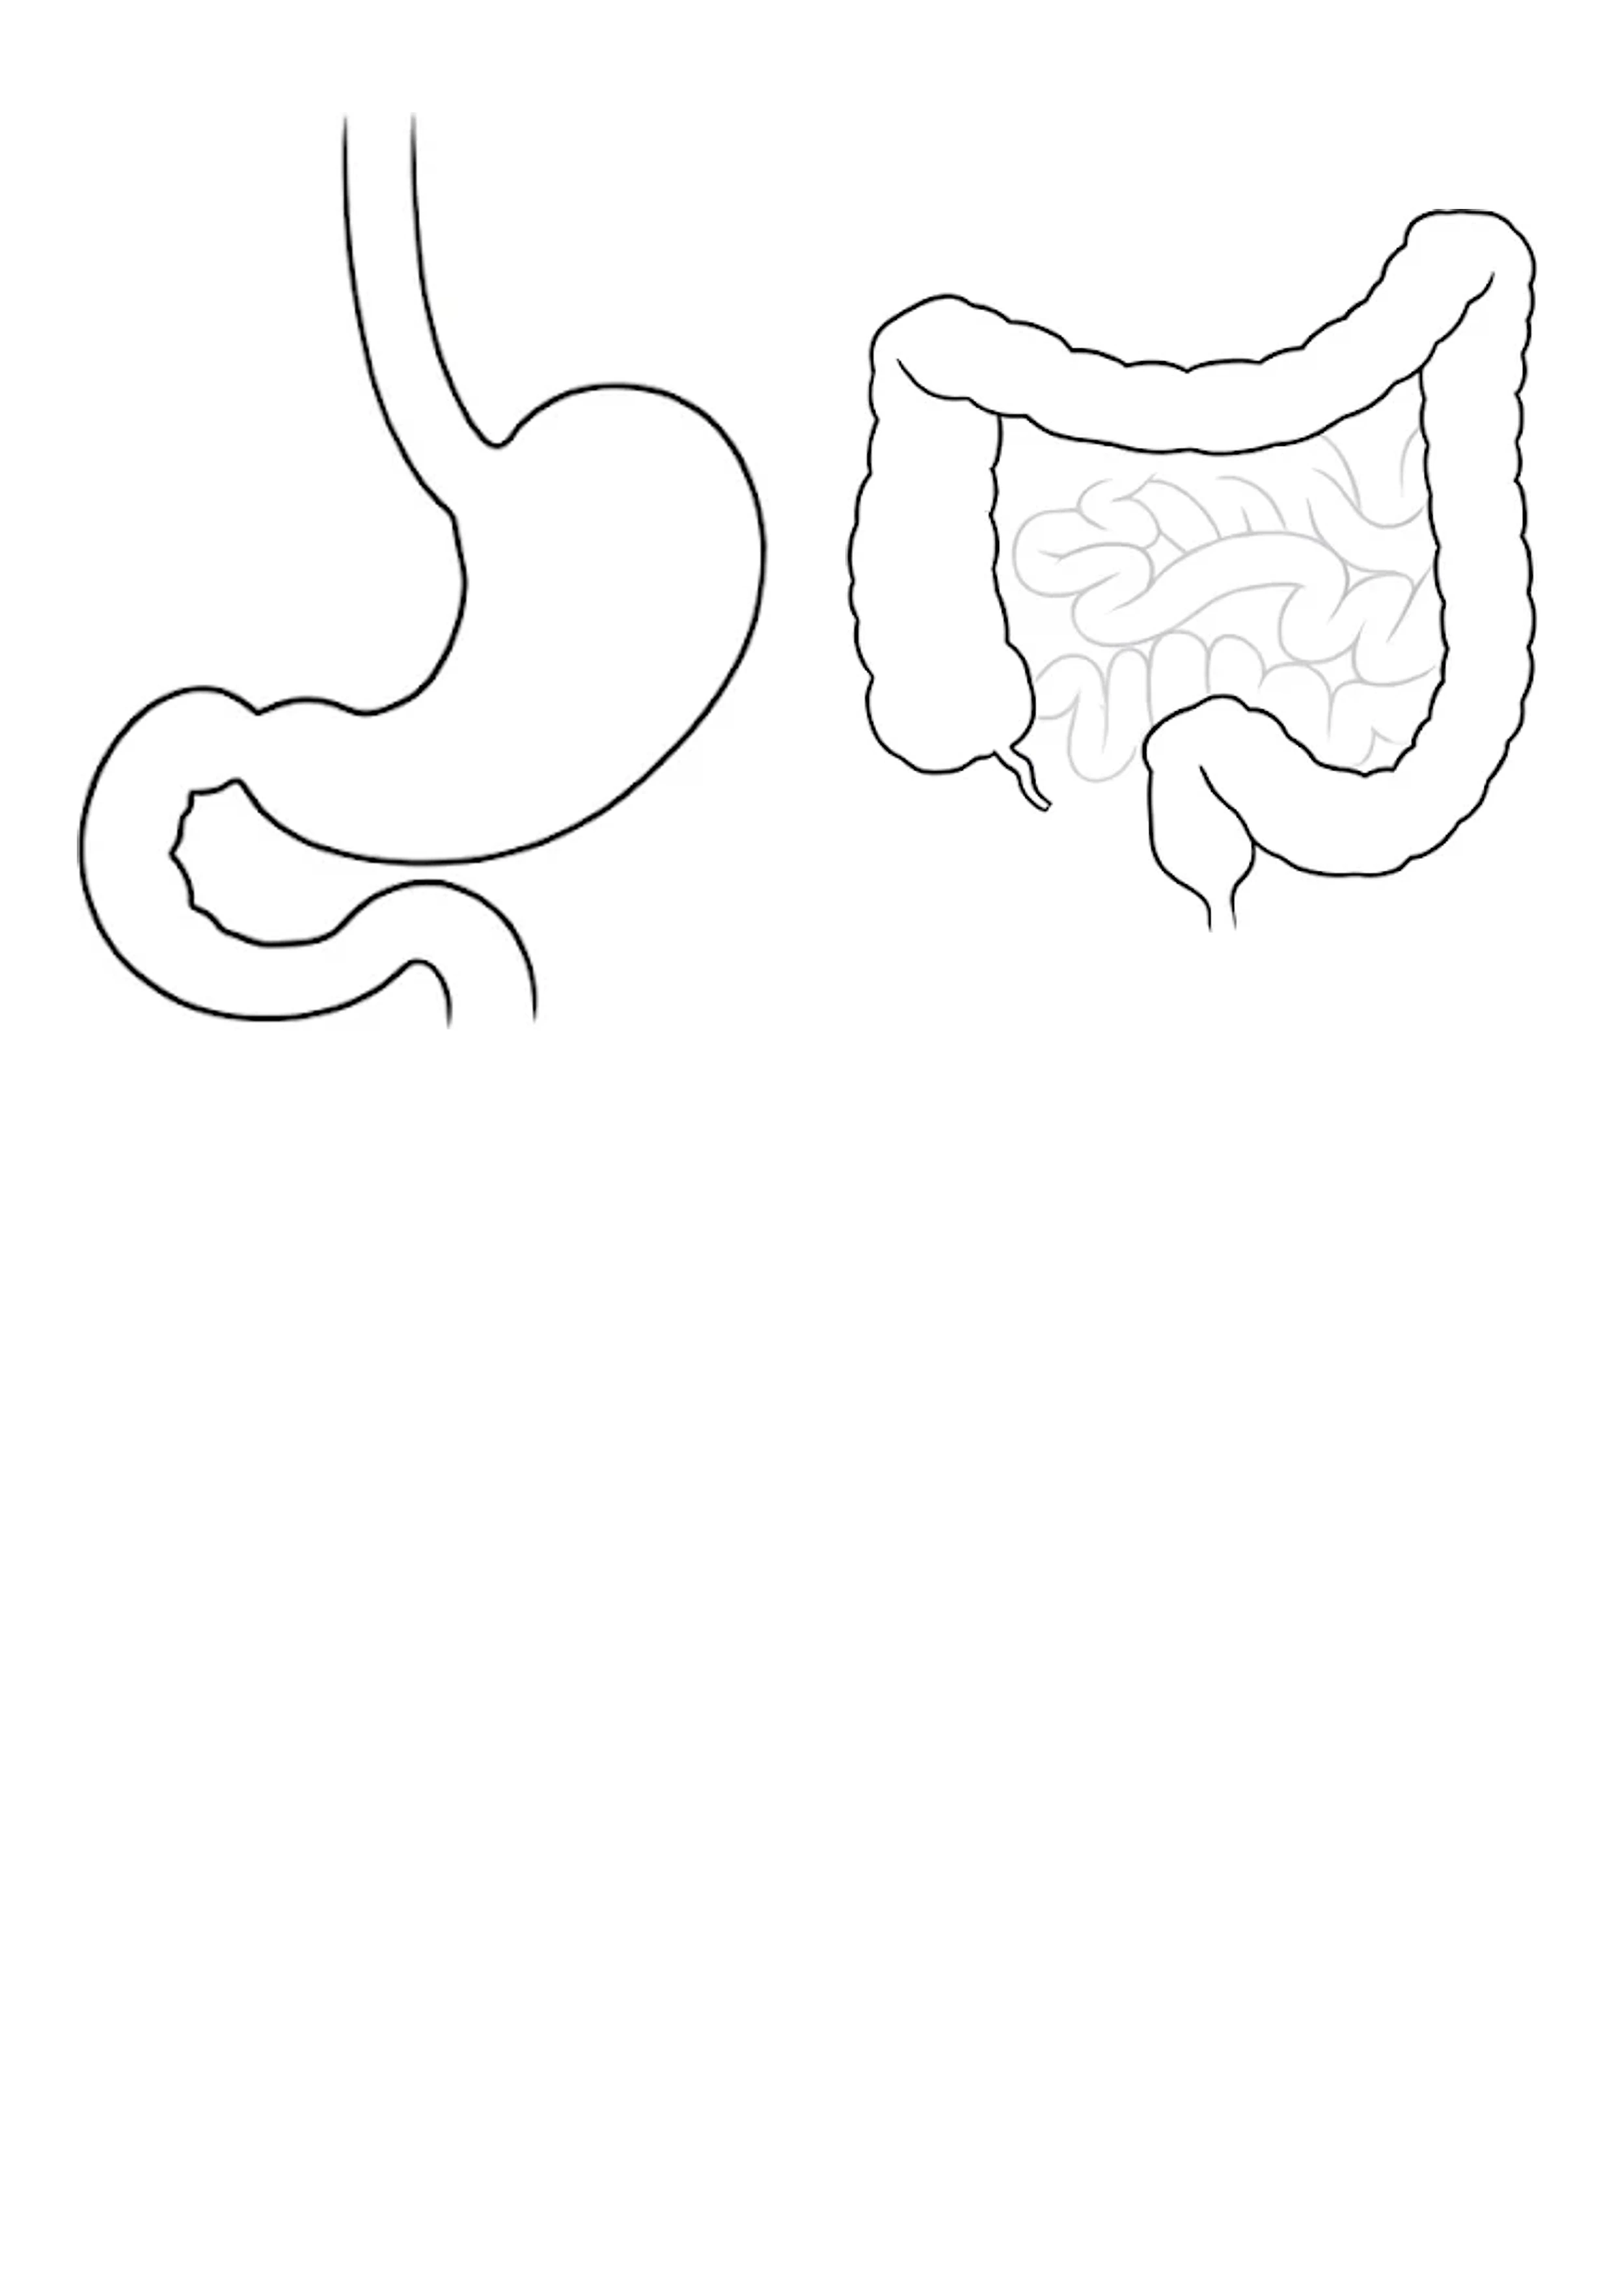
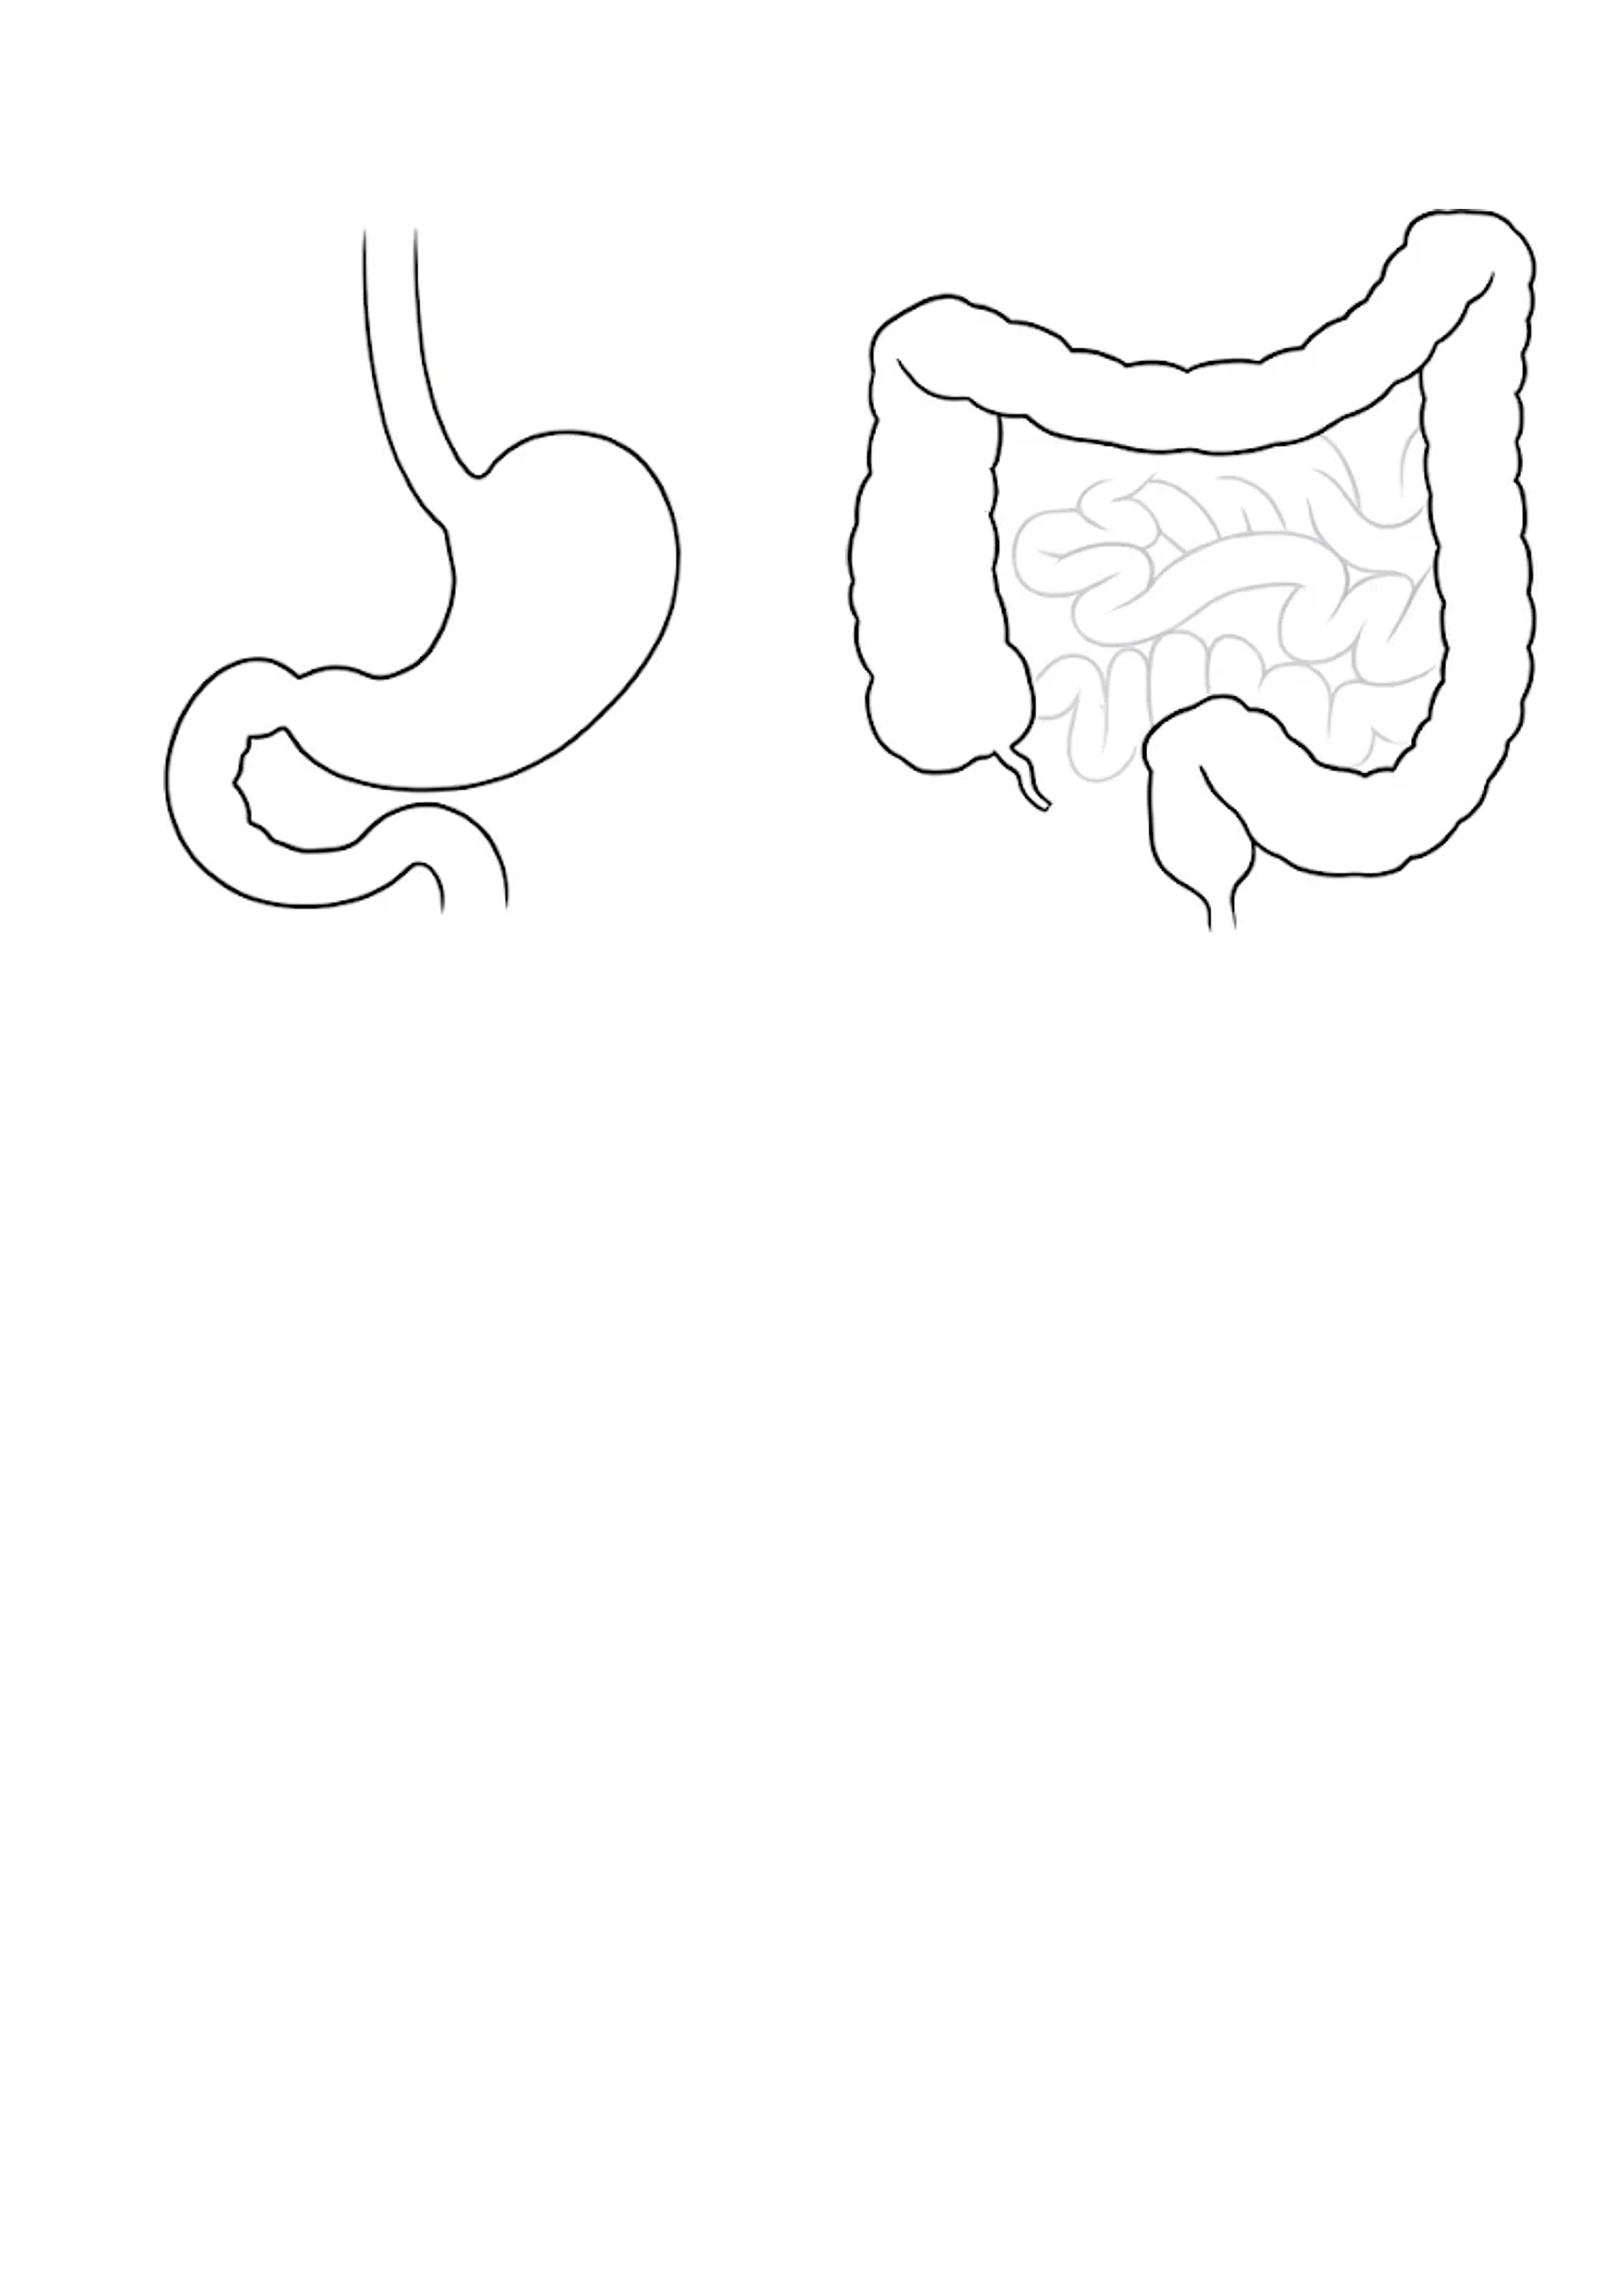
解剖圖稿：胃與大腸左邊上消化道縮成 75%
anatomy.html 的 JOBS 加 scale（左、右倍數），縮小後在格內置中。

diff --git a/edu-src/anatomy.html b/edu-src/anatomy.html
@@ -9,6 +9,7 @@
   原圖在 edu-src/anatomy/（2480 × 1748，A5 橫式，左右各一個器官）。
   做法：每張原圖從中間最寬的空白欄切成左右兩個器官，各自裁到線條邊界，
   在 A5 版面（A4 直式上半頁，2480 × 1754，300 dpi）裡左右各一格放到最大、置中。
+  JOBS 的 scale 是放到最大之後再乘的倍數（左、右），縮小後仍在格子裡置中。
   四邊與中間留 10 mm。依 YT 2026-11-20 指示：不放頁首、頁尾、LINE QR code、LOGO。
   輸出的圖是整張 A4 直式（下半頁空白），跟其他 A5 衛教單同一套列印方式。
 -->
@@ -16,7 +17,7 @@
 <body>
 <script>
 const JOBS = [
-  {src: 'anatomy/upper-gi.png',      out: 'edu-a5-anatomy-upper-gi'},
+  {src: 'anatomy/upper-gi.png',      out: 'edu-a5-anatomy-upper-gi', scale: [0.75, 1]},   // 左邊上消化道縮成 75%（YT 2026-11-22）
   {src: 'anatomy/hepatobiliary.png', out: 'edu-a5-anatomy-hepatobiliary'},
 ];
 const PAGE_W = 2480, PAGE_H = 3508, A5_H = 1754;
@@ -66,7 +67,7 @@ async function build(job){
   g.imageSmoothingEnabled = true; g.imageSmoothingQuality = 'high';
   const info = [];
   parts.forEach((b, i)=>{
-    const s = Math.min(cellW / b.w, cellH / b.h);
+    const s = Math.min(cellW / b.w, cellH / b.h) * (job.scale ? job.scale[i] : 1);
     const w = b.w * s, h = b.h * s;
     const x = PAD + i * (cellW + GAP) + (cellW - w) / 2, y = PAD + (cellH - h) / 2;
     g.drawImage(im, b.x, b.y, b.w, b.h, x, y, w, h);

diff --git a/sw.js b/sw.js
@@ -9,7 +9,7 @@
    工作台開啟後會把所有衛教與表單圖片預先存下，斷網時也能顯示與列印。
    網路很慢（伺服器 3 秒內沒回應，圖片 6 秒）時先用快取開啟，背景照樣把新版存下，下次開啟就是新版；
    以前會一直等到連線逾時，網路卡住時整個工作台白畫面。 */
-const CACHE = 'tools-v100';
+const CACHE = 'tools-v102';
 const CORE = [
   './', 'index.html',
   'mount.js', 'revision.js',

diff --git a/revision.js b/revision.js
@@ -2,7 +2,7 @@
    工作台（index.html）與臨床計算病人版（calc/index.html）都先載入這份，各工具再從 REVISION 讀自己的日期。
    報價單上的「價目版本」不在這裡：價格有變才改，見 quote/app.js 的 Q_PRICE_VERSION。 */
 const REVISION = {
-  hub:     '2026-11-20',
+  hub:     '2026-11-22',
   quote:   '2026-11-19',
   calc:    '2026-11-19',
   weight:  '2026-11-19',
